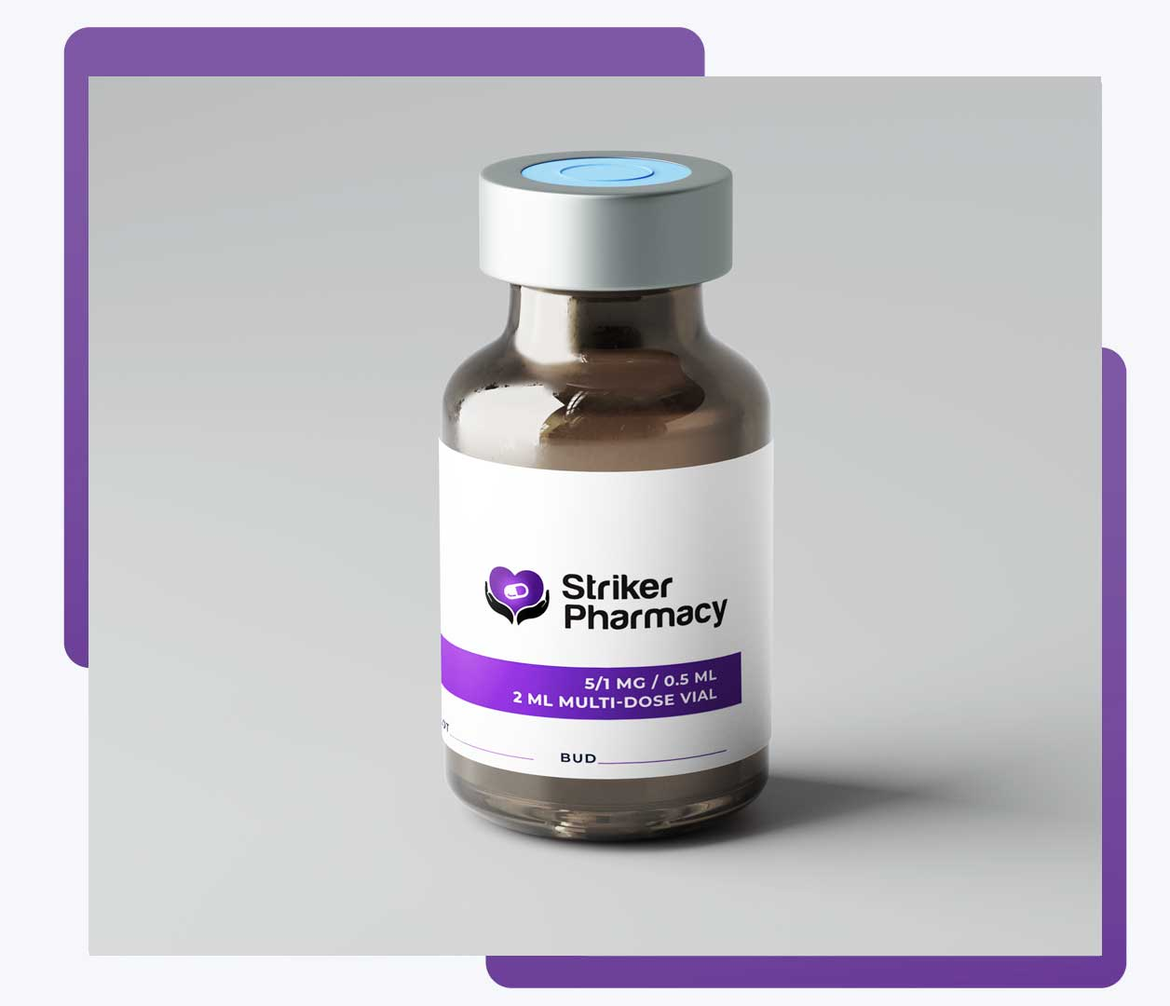
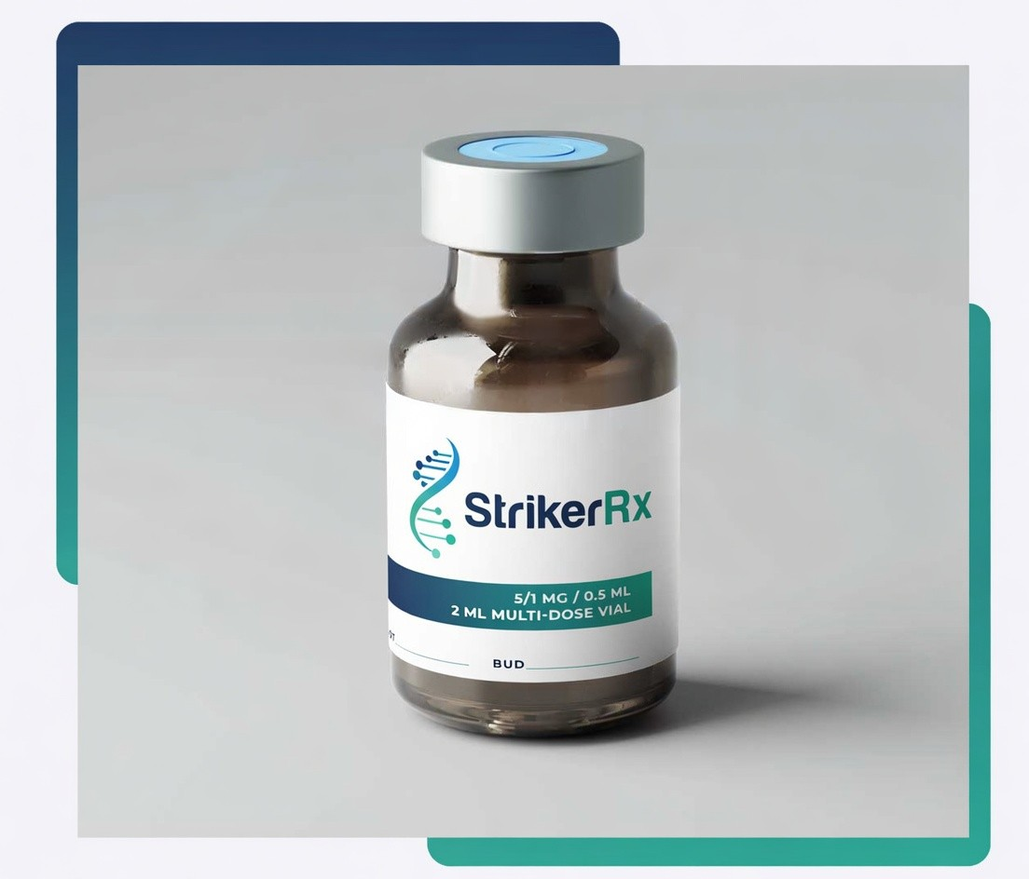
Polish home, split provider and patient tracks, and refresh brand photos.
Round the hero still, drop prototype numbering, show Partner forms only after a track is chosen, and replace old purple logo art including a new StrikerRx vial mock-up.

diff --git a/index.html b/index.html
@@ -67,6 +67,13 @@
     position:fixed; inset:0; z-index:80; background:#fff;
     overflow:auto; -webkit-overflow-scrolling:touch;
   }
+  .home-hero-ctas a { min-width:280px; text-align:center; box-sizing:border-box; }
+  .rounded-photo { border-radius:20px; overflow:hidden; height:100%; box-shadow:0 24px 60px rgba(14,27,44,.35); }
+  .track-tab { display:inline-block; font-size:13px; font-weight:600; padding:10px 16px; border-radius:2px; border:1px solid #d4dae1; color:#3a4654; }
+  .track-tab.on { background:#1F3D68; color:#fff; border-color:#1F3D68; }
+  .chooser-card { display:block; background:#fff; padding:40px 36px; min-height:220px; color:#0E1B2C; border:1px solid #E3E7EC; }
+  .chooser-card:hover { border-color:#269389; color:#1F3D68; }
+  .footer-email { white-space:nowrap; }
   @media (prefers-reduced-motion: reduce) {
     .hero-bg-video { display:none; }
   }
@@ -81,8 +88,9 @@
     .home-hero-grid { gap:0 !important; padding-top:32px !important; padding-bottom:0 !important; }
     .home-hero-title { font-size:31px !important; line-height:1.06 !important; margin:14px 0 14px !important; }
     .home-hero-ctas { flex-direction:column !important; margin-top:22px !important; }
-    .home-hero-ctas a { text-align:center; width:100%; box-sizing:border-box; padding:15px !important; }
-    .home-hero-photo { height:190px !important; box-shadow:none !important; width:calc(100% + 44px); margin-left:-22px; margin-top:24px; }
+    .home-hero-ctas a { text-align:center; width:100%; min-width:0 !important; box-sizing:border-box; padding:15px !important; }
+    .home-hero-photo { height:190px !important; width:calc(100% + 44px); margin-left:-22px; margin-top:24px; }
+    .rounded-photo { box-shadow:none !important; }
     .photo-frame { height:240px !important; }
     .exp-rule { border-left:0 !important; border-top:1px solid rgba(255,255,255,.28) !important; padding-left:0 !important; padding-top:28px !important; }
     .home-hero-stat { display:none !important; }
@@ -120,7 +128,7 @@
       </div>
       <div class="site-header-cta" style="display:flex;align-items:center;gap:18px">
         <a href="tel:8324378624" style="font-size:14px;font-weight:500;color:#606060">832.437.8624</a>
-        <a href="#" onClick="{{ goPartner }}" style="background:#1F3D68;color:#fff;font-size:14px;font-weight:600;padding:12px 20px;border-radius:2px;letter-spacing:-0.01em" style-hover="background:#269389;color:#fff">Provider Account</a>
+        <a href="#" onClick="{{ goProvider }}" style="background:#1F3D68;color:#fff;font-size:14px;font-weight:600;padding:12px 20px;border-radius:2px;letter-spacing:-0.01em" style-hover="background:#269389;color:#fff">Provider Account</a>
       </div>
       <a href="#" class="site-menu-btn" onClick="{{ toggleMenu }}" aria-label="Open menu">
         <span></span><span></span>
@@ -130,11 +138,10 @@
       <div class="wrap" style="max-width:1240px;margin:0 auto;padding:0 40px;height:42px;display:flex;align-items:center;gap:34px;font-size:12.5px;font-weight:500;letter-spacing:0.06em;text-transform:uppercase;color:rgba(255,255,255,.86)">
         <sc-for list="{{ trust }}" as="t" hint-placeholder-count="4">
           <div style="display:flex;align-items:center;gap:34px">
-            <span>{{ t }}</span>
-            <span style="width:4px;height:4px;border-radius:50%;background:#269389;display:block"></span>
+            <span>{{ t.label }}</span>
+            <sc-if value="{{ t.dot }}" hint-placeholder-val="{{ true }}"><span style="width:4px;height:4px;border-radius:50%;background:#269389;display:block"></span></sc-if>
           </div>
         </sc-for>
-        <span style="margin-left:auto;color:#A9DED6;text-transform:none;letter-spacing:0">Katy, Texas</span>
       </div>
     </div>
   </div>
@@ -151,7 +158,7 @@
       </sc-for>
       <a href="#" onClick="{{ goCareers }}" style="display:flex;align-items:center;min-height:48px;font-size:18px;font-weight:500;color:#0E1B2C;border-bottom:1px solid #E3E7EC">Careers</a>
       <a href="tel:8324378624" style="display:block;margin-top:28px;font-size:16px;font-weight:500;color:#606060">832.437.8624</a>
-      <a href="#" onClick="{{ goPartner }}" style="display:block;margin-top:16px;background:#1F3D68;color:#fff;font-size:15px;font-weight:600;padding:16px;border-radius:2px;text-align:center">Provider Account</a>
+      <a href="#" onClick="{{ goProvider }}" style="display:block;margin-top:16px;background:#1F3D68;color:#fff;font-size:15px;font-weight:600;padding:16px;border-radius:2px;text-align:center">Provider Account</a>
     </div>
   </div>
   </sc-if>
@@ -172,14 +179,16 @@
           <div style="width:96px;height:4px;background:linear-gradient(90deg,#158ECE,#34A697);margin:30px 0 26px"></div>
           <p style="font-size:19px;line-height:1.62;color:rgba(255,255,255,.82);max-width:560px;margin:0;font-weight:300">StrikerRx is a 503A-licensed compounding pharmacy partnering with healthcare providers nationwide to deliver patient-specific formulations with quality and consistency you can count on.</p>
           <div class="home-hero-ctas" style="display:flex;gap:14px;margin-top:38px;flex-wrap:wrap">
-            <a href="#" onClick="{{ goPartner }}" style="background:#269389;color:#fff;font-size:15px;font-weight:600;padding:17px 28px;border-radius:2px" style-hover="background:#34A697;color:#fff">For providers: set up an account</a>
-            <a href="#" onClick="{{ goCompound }}" style="border:1px solid rgba(255,255,255,.35);color:#fff;font-size:15px;font-weight:600;padding:17px 28px;border-radius:2px" style-hover="background:rgba(255,255,255,.1);color:#fff">For patients: how this works</a>
+            <a href="#" onClick="{{ goProvider }}" style="background:#269389;color:#fff;font-size:15px;font-weight:600;padding:17px 28px;border-radius:2px" style-hover="background:#34A697;color:#fff">For providers: set up an account</a>
+            <a href="#" onClick="{{ goPatientCompound }}" style="border:1px solid rgba(255,255,255,.35);color:#fff;font-size:15px;font-weight:600;padding:17px 28px;border-radius:2px" style-hover="background:rgba(255,255,255,.1);color:#fff">For patients: how this works</a>
           </div>
         </div>
-        <div class="home-hero-photo" style="position:relative;height:460px;box-shadow:0 24px 60px rgba(14,27,44,.35)">
-          <image-slot id="hero-a" shape="rect" radius="0" src="assets/photos/striker-bottles-blue-glove-tech.jpg" placeholder="StrikerRx vials on the compounding bench"></image-slot>
-          <div class="home-hero-stat" style="position:absolute;left:-28px;bottom:-28px;background:#fff;color:#0E1B2C;padding:22px 26px;max-width:250px;box-shadow:0 18px 50px rgba(14,27,44,.28);pointer-events:none">
-            <div style="font-size:34px;font-weight:700;letter-spacing:-0.03em;color:#269389">30+ yrs</div>
+        <div class="home-hero-photo" style="position:relative;height:460px">
+          <div class="rounded-photo">
+            <image-slot id="hero-a" shape="rounded" radius="20" src="assets/photos/striker-bottles-blue-glove-tech.jpg" placeholder="StrikerRx vials on the compounding bench"></image-slot>
+          </div>
+          <div class="home-hero-stat" style="position:absolute;left:-28px;bottom:-28px;background:#fff;color:#0E1B2C;padding:22px 26px;max-width:250px;border-radius:16px;box-shadow:0 18px 50px rgba(14,27,44,.28);pointer-events:none">
+            <div style="font-size:34px;font-weight:700;letter-spacing:-0.03em;color:#269389">30+ years</div>
             <div style="font-size:14px;line-height:1.45;color:#606060;margin-top:4px">combined pharmacy experience on the compounding bench</div>
           </div>
         </div>
@@ -191,8 +200,7 @@
         <div class="home-pillars" style="display:grid;grid-template-columns:repeat(3,1fr);gap:0;border-top:1px solid #E3E7EC">
           <sc-for list="{{ pillars }}" as="p" hint-placeholder-count="3">
             <div style="padding:44px 40px 8px 0;border-right:1px solid #E3E7EC">
-              <div style="font-size:13px;font-weight:700;color:#269389;letter-spacing:0.12em">{{ p.num }}</div>
-              <h3 style="font-size:26px;line-height:1.18;letter-spacing:-0.025em;font-weight:600;margin:18px 0 14px;max-width:270px;text-wrap:pretty">{{ p.title }}</h3>
+              <h3 style="font-size:26px;line-height:1.18;letter-spacing:-0.025em;font-weight:600;margin:0 0 14px;max-width:270px;text-wrap:pretty">{{ p.title }}</h3>
               <p style="font-size:16px;line-height:1.66;color:#606060;margin:0;max-width:300px;font-weight:300">{{ p.body }}</p>
             </div>
           </sc-for>
@@ -226,9 +234,8 @@
           <a href="#" onClick="{{ goCompound }}" style="font-size:15px;font-weight:600;color:#269389;padding-bottom:6px;border-bottom:2px solid #269389">See all therapeutic categories</a>
         </div>
         <div class="cols-4" style="display:grid;grid-template-columns:repeat(4,1fr);gap:1px;background:#E3E7EC;border:1px solid #E3E7EC">
-          <sc-for list="{{ catNames }}" as="c" hint-placeholder-count="8">
-            <a href="#" onClick="{{ c.go }}" style="background:#fff;padding:34px 26px;min-height:150px;display:flex;flex-direction:column;justify-content:space-between;color:#0E1B2C" style-hover="background:#F7F7F7;color:#1F3D68">
-              <div style="font-size:12px;font-weight:600;color:#269389;letter-spacing:0.1em">{{ c.num }}</div>
+          <sc-for list="{{ catNames }}" as="c" hint-placeholder-count="7">
+            <a href="#" onClick="{{ c.go }}" style="background:#fff;padding:34px 26px;min-height:150px;display:flex;flex-direction:column;justify-content:flex-end;color:#0E1B2C" style-hover="background:#F7F7F7;color:#1F3D68">
               <div style="font-size:19px;font-weight:600;line-height:1.22;letter-spacing:-0.02em;text-wrap:pretty">{{ c.name }}</div>
             </a>
           </sc-for>
@@ -258,8 +265,8 @@
           <p style="font-size:18px;line-height:1.62;color:rgba(255,255,255,.74);margin:0;font-weight:300">Set up a provider account or contact our pharmacy team to discuss your practice's compounding needs. Most accounts are active within 24 hours.</p>
         </div>
         <div style="display:flex;gap:14px;flex-wrap:wrap">
-          <a href="#" onClick="{{ goPartner }}" style="background:#269389;color:#fff;font-size:15px;font-weight:600;padding:17px 28px;border-radius:2px" style-hover="background:#34A697;color:#fff">Set up a provider account</a>
-          <a href="#" onClick="{{ goPartner }}" style="border:1px solid rgba(255,255,255,.35);color:#fff;font-size:15px;font-weight:600;padding:17px 28px;border-radius:2px" style-hover="background:rgba(255,255,255,.1);color:#fff">Contact our pharmacy team</a>
+          <a href="#" onClick="{{ goProvider }}" style="background:#269389;color:#fff;font-size:15px;font-weight:600;padding:17px 28px;border-radius:2px" style-hover="background:#34A697;color:#fff">Set up a provider account</a>
+          <a href="#" onClick="{{ goPatient }}" style="border:1px solid rgba(255,255,255,.35);color:#fff;font-size:15px;font-weight:600;padding:17px 28px;border-radius:2px" style-hover="background:rgba(255,255,255,.1);color:#fff">I'm a patient</a>
         </div>
       </div>
     </div>
@@ -321,7 +328,7 @@
           <h2 style="font-size:40px;line-height:1.08;letter-spacing:-0.03em;font-weight:700;margin:0 0 14px">Ready to partner with StrikerRx?</h2>
           <p style="font-size:18px;line-height:1.6;color:rgba(255,255,255,.86);margin:0;font-weight:300">Set up a provider account or contact our pharmacy team to discuss your practice's compounding needs.</p>
         </div>
-        <a href="#" onClick="{{ goPartner }}" style="background:#fff;color:#1F3D68;font-size:15px;font-weight:600;padding:17px 28px;border-radius:2px" style-hover="background:#0E1B2C;color:#fff">Set up a provider account</a>
+        <a href="#" onClick="{{ goProvider }}" style="background:#fff;color:#1F3D68;font-size:15px;font-weight:600;padding:17px 28px;border-radius:2px" style-hover="background:#0E1B2C;color:#fff">Set up a provider account</a>
       </div>
     </div>
   </div>
@@ -345,36 +352,43 @@
           <sc-for list="{{ categories }}" as="c" hint-placeholder-count="7">
             <div style="border-bottom:1px solid #E3E7EC">
               <a href="#" onClick="{{ c.toggle }}" class="cat-row" style="display:flex;align-items:center;gap:28px;padding:30px 4px;color:#0E1B2C" style-hover="color:#269389">
-                <span style="font-size:13px;font-weight:600;color:#269389;letter-spacing:0.1em;width:34px">{{ c.num }}</span>
                 <span class="cat-name" style="font-size:30px;font-weight:600;letter-spacing:-0.025em;flex:1;text-wrap:pretty">{{ c.name }}</span>
                 <span style="font-size:26px;font-weight:300;color:#606060">{{ c.sign }}</span>
               </a>
               <sc-if value="{{ c.open }}" hint-placeholder-val="{{ true }}">
-                <div class="cols-2" style="display:grid;grid-template-columns:1fr 1fr;gap:1px;background:#E3E7EC;margin:0 0 30px;border:1px solid #E3E7EC">
-                  <div style="background:#F7F7F7;padding:32px 30px">
-                    <div style="font-size:12px;font-weight:700;letter-spacing:0.12em;text-transform:uppercase;color:#1F3D68;margin-bottom:12px">For providers</div>
-                    <p style="font-size:16.5px;line-height:1.66;margin:0;color:#3a4654;font-weight:300">{{ c.providers }}</p>
+                <div style="margin:0 0 30px;padding:28px 4px 8px">
+                  <div style="display:flex;gap:10px;flex-wrap:wrap;margin-bottom:22px">
+                    <a href="#" onClick="{{ setProviderTrack }}" class="track-tab {{ c.providerOn }}">For providers</a>
+                    <a href="#" onClick="{{ setPatientTrack }}" class="track-tab {{ c.patientOn }}">For patients</a>
                   </div>
-                  <div style="background:#F7F7F7;padding:32px 30px">
-                    <div style="font-size:12px;font-weight:700;letter-spacing:0.12em;text-transform:uppercase;color:#269389;margin-bottom:12px">For patients</div>
-                    <p style="font-size:16.5px;line-height:1.66;margin:0;color:#3a4654;font-weight:300">{{ c.patients }}</p>
-                  </div>
+                  <sc-if value="{{ noAudience }}" hint-placeholder-val="{{ true }}">
+                    <p style="font-size:16px;line-height:1.66;color:#606060;margin:0;font-weight:300">Choose a track to see how this category works for you.</p>
+                  </sc-if>
+                  <sc-if value="{{ isProvider }}" hint-placeholder-val="{{ true }}">
+                    <div style="background:#F7F7F7;padding:32px 30px">
+                      <div style="font-size:12px;font-weight:700;letter-spacing:0.12em;text-transform:uppercase;color:#1F3D68;margin-bottom:12px">Provider track</div>
+                      <p style="font-size:16.5px;line-height:1.66;margin:0 0 22px;color:#3a4654;font-weight:300">{{ c.providers }}</p>
+                      <a href="#" onClick="{{ goProvider }}" style="display:inline-block;background:#269389;color:#fff;font-size:15px;font-weight:600;padding:14px 22px;border-radius:2px" style-hover="background:#1F3D68;color:#fff">Set up a provider account</a>
+                    </div>
+                  </sc-if>
+                  <sc-if value="{{ isPatient }}" hint-placeholder-val="{{ true }}">
+                    <div style="background:#F7F7F7;padding:32px 30px">
+                      <div style="font-size:12px;font-weight:700;letter-spacing:0.12em;text-transform:uppercase;color:#269389;margin-bottom:12px">Patient track</div>
+                      <p style="font-size:16.5px;line-height:1.66;margin:0 0 22px;color:#3a4654;font-weight:300">{{ c.patients }}</p>
+                      <a href="#" onClick="{{ goPatient }}" style="display:inline-block;background:#1F3D68;color:#fff;font-size:15px;font-weight:600;padding:14px 22px;border-radius:2px" style-hover="background:#269389;color:#fff">Ask a question</a>
+                    </div>
+                  </sc-if>
                 </div>
               </sc-if>
             </div>
           </sc-for>
-          <div style="border-bottom:1px solid #E3E7EC;padding:30px 4px;display:flex;align-items:center;gap:28px;color:#9aa4ae">
-            <span style="font-size:13px;font-weight:600;letter-spacing:0.1em;width:34px">08</span>
-            <span style="font-size:30px;font-weight:300;letter-spacing:-0.025em">Future category</span>
-            <span style="font-size:13px;margin-left:auto;letter-spacing:0.06em;text-transform:uppercase">Placeholder</span>
-          </div>
         </div>
       </div>
     </div>
     <div style="background:#0E1B2C;color:#fff">
       <div class="wrap" style="max-width:1240px;margin:0 auto;padding:78px 40px;display:flex;align-items:center;justify-content:space-between;gap:50px;flex-wrap:wrap">
-        <h2 style="font-size:36px;line-height:1.12;letter-spacing:-0.03em;font-weight:700;margin:0;max-width:600px">Don't see what your practice needs?</h2>
-        <a href="#" onClick="{{ goPartner }}" style="background:#269389;color:#fff;font-size:15px;font-weight:600;padding:17px 28px;border-radius:2px" style-hover="background:#34A697;color:#fff">Ask our pharmacy team</a>
+        <h2 style="font-size:36px;line-height:1.12;letter-spacing:-0.03em;font-weight:700;margin:0;max-width:600px">{{ compoundCtaTitle }}</h2>
+        <a href="#" onClick="{{ compoundCtaGo }}" style="background:#269389;color:#fff;font-size:15px;font-weight:600;padding:17px 28px;border-radius:2px" style-hover="background:#34A697;color:#fff">{{ compoundCtaLabel }}</a>
       </div>
     </div>
   </div>
@@ -386,17 +400,36 @@
     <div style="background:#F7F7F7">
       <div class="wrap" style="max-width:1240px;margin:0 auto;padding:88px 40px 76px">
         <h1 class="page-title" style="font-size:62px;line-height:1.02;letter-spacing:-0.04em;font-weight:700;margin:0">Work with StrikerRx</h1>
-        <p style="font-size:19px;line-height:1.62;color:#3a4654;margin:18px 0 0;max-width:660px;font-weight:300">Whether you are setting up a new provider account or have a question about an existing order, our pharmacy team responds within 24 hours or less.</p>
+        <p style="font-size:19px;line-height:1.62;color:#3a4654;margin:18px 0 0;max-width:660px;font-weight:300">{{ partnerIntro }}</p>
       </div>
     </div>
 
+    <sc-if value="{{ noAudience }}" hint-placeholder-val="{{ true }}">
+    <div style="background:#fff">
+      <div class="wrap cols-2" style="max-width:1240px;margin:0 auto;padding:20px 40px 96px;display:grid;grid-template-columns:1fr 1fr;gap:24px">
+        <a href="#" onClick="{{ goProvider }}" class="chooser-card" style-hover="border-color:#269389;color:#1F3D68">
+          <div style="font-size:12px;font-weight:600;letter-spacing:0.14em;text-transform:uppercase;color:#269389;margin-bottom:14px">For healthcare providers</div>
+          <h2 style="font-size:32px;line-height:1.12;letter-spacing:-0.03em;font-weight:700;margin:0 0 14px">Set up a provider account</h2>
+          <p style="font-size:16px;line-height:1.62;color:#606060;margin:0;font-weight:300">Request a formulation list, ask a clinical question, or open an account. Most accounts are active within 24 hours.</p>
+        </a>
+        <a href="#" onClick="{{ goPatient }}" class="chooser-card" style-hover="border-color:#269389;color:#1F3D68">
+          <div style="font-size:12px;font-weight:600;letter-spacing:0.14em;text-transform:uppercase;color:#269389;margin-bottom:14px">For patients</div>
+          <h2 style="font-size:32px;line-height:1.12;letter-spacing:-0.03em;font-weight:700;margin:0 0 14px">Have a question?</h2>
+          <p style="font-size:16px;line-height:1.62;color:#606060;margin:0;font-weight:300">We compound from a valid prescription. Ask your provider to submit it, or send us a question about an existing order.</p>
+        </a>
+      </div>
+    </div>
+    </sc-if>
+
     <!-- PROVIDER -->
+    <sc-if value="{{ isProvider }}" hint-placeholder-val="{{ true }}">
     <div style="background:#1F3D68;color:#fff">
       <div class="wrap cols-2" style="max-width:1240px;margin:0 auto;padding:88px 40px;display:grid;grid-template-columns:.85fr 1.15fr;gap:72px;align-items:start">
         <div>
           <div style="font-size:12px;font-weight:600;letter-spacing:0.14em;text-transform:uppercase;color:#A9DED6">For healthcare providers</div>
           <h2 style="font-size:40px;line-height:1.08;letter-spacing:-0.03em;font-weight:700;margin:16px 0 18px">Set up a provider account</h2>
           <p style="font-size:17px;line-height:1.66;color:rgba(255,255,255,.8);margin:0;font-weight:300">New to StrikerRx? Use the provider form to set up an account, request a formulation list, or ask a clinical question. Already a provider? Contact your account representative directly.</p>
+          <a href="#" onClick="{{ goPatient }}" style="display:inline-block;margin-top:18px;font-size:14px;font-weight:600;color:#A9DED6">Not a provider? Patient questions →</a>
           <div style="margin-top:34px;padding-top:26px;border-top:1px solid rgba(255,255,255,.2);display:flex;flex-direction:column;gap:14px">
             <div style="font-size:15px;color:rgba(255,255,255,.9)">customersupport@strikerrx.com</div>
             <div style="font-size:15px;color:rgba(255,255,255,.9)">832.437.8624</div>
@@ -525,14 +558,17 @@
         </div>
       </div>
     </div>
+    </sc-if>
 
     <!-- PATIENT -->
+    <sc-if value="{{ isPatient }}" hint-placeholder-val="{{ true }}">
     <div style="background:#A9DED6;color:#0E1B2C">
       <div class="wrap cols-2" style="max-width:1240px;margin:0 auto;padding:88px 40px;display:grid;grid-template-columns:.85fr 1.15fr;gap:72px;align-items:start">
         <div>
           <div style="font-size:12px;font-weight:600;letter-spacing:0.14em;text-transform:uppercase;color:#1F3D68">For patients</div>
           <h2 style="font-size:40px;line-height:1.08;letter-spacing:-0.03em;font-weight:700;margin:16px 0 18px">Have a question?</h2>
           <p style="font-size:17px;line-height:1.66;color:rgba(14,27,44,.76);margin:0;font-weight:300">StrikerRx compounds medications using valid prescriptions from licensed providers. We do not accept direct patient orders. Ask your provider to submit your prescription through their StrikerRx account.</p>
+          <a href="#" onClick="{{ goProvider }}" style="display:inline-block;margin-top:18px;font-size:14px;font-weight:600;color:#1F3D68">Are you a provider? Set up an account →</a>
         </div>
         <div class="form-card" style="background:#fff;padding:40px 44px 44px">
           <sc-if value="{{ patientDone }}" hint-placeholder-val="{{ true }}">
@@ -576,6 +612,7 @@
         </div>
       </div>
     </div>
+    </sc-if>
 
     <div style="background:#F7F7F7">
       <div class="wrap" style="max-width:1240px;margin:0 auto;padding:70px 40px">
@@ -636,7 +673,7 @@
           </div>
         </div>
         <div class="photo-frame" style="height:420px;position:relative">
-          <image-slot id="careers-team" shape="rect" radius="0" src="assets/photos/Striker-Attending-Conference-Web-Art-fb-1024x536.jpg" placeholder="Team at work"></image-slot>
+          <image-slot id="careers-team" shape="rect" radius="0" src="assets/photos/Home-Header-02.jpg" placeholder="Team at work"></image-slot>
         </div>
       </div>
     </div>
@@ -769,7 +806,7 @@
           <div style="font-size:12px;font-weight:600;letter-spacing:0.12em;text-transform:uppercase;color:#A9DED6;margin-bottom:4px">Contact</div>
           <div style="font-size:15px;line-height:1.6;color:rgba(255,255,255,.8)">1330 Pin Oak Rd<br />Katy, Texas 77494</div>
           <a href="tel:8324378624" style="font-size:15px;color:rgba(255,255,255,.8)" style-hover="color:#A9DED6">832.437.8624</a>
-          <a href="mailto:customersupport@strikerrx.com" style="font-size:15px;color:rgba(255,255,255,.8);word-break:break-all" style-hover="color:#A9DED6">customersupport@strikerrx.com</a>
+          <a href="mailto:customersupport@strikerrx.com" class="footer-email" style="font-size:15px;color:rgba(255,255,255,.8)" style-hover="color:#A9DED6">customersupport@strikerrx.com</a>
         </div>
         <div style="display:flex;flex-direction:column;gap:12px">
           <div style="font-size:12px;font-weight:600;letter-spacing:0.12em;text-transform:uppercase;color:#A9DED6;margin-bottom:4px">Hours</div>
@@ -794,7 +831,7 @@
 <script type="text/x-dc" data-dc-script data-props="{&quot;$preview&quot;:{&quot;width&quot;:1440}}">
 class Component extends DCLogic {
   state = {
-    page: 'home', menuOpen: false, openCat: 0, role: null, applied: false,
+    page: 'home', audience: null, menuOpen: false, openCat: 0, role: null, applied: false,
     step: 1, pDone: false, err: '', f: {}, cats: {},
     pf: {}, patDone: false, patErr: ''
   };
@@ -837,7 +874,11 @@ class Component extends DCLogic {
       label, active: page === key, idle: page !== key,
       go: e => { e.preventDefault(); this.go(key); }
     });
-    const nav = [mk('Home', 'home'), mk('About StrikerRx', 'about'), mk('What We Compound', 'compound'), mk('Partner With Us', 'partner'), mk('Insights', 'insights')];
+    const nav = [
+      mk('Home', 'home'), mk('About StrikerRx', 'about'), mk('What We Compound', 'compound'),
+      { label: 'Partner With Us', active: page === 'partner', idle: page !== 'partner', go: e => { e.preventDefault(); this.setState({ audience: null, page: 'partner', menuOpen: false, role: null, err: '' }); window.scrollTo(0, 0); } },
+      mk('Insights', 'insights')
+    ];
 
     const cat = (name, providers, patients) => ({ name, providers, patients });
     const cats = [
@@ -863,8 +904,6 @@ class Component extends DCLogic {
         'StrikerRx compounds sterile and non-sterile preparations for licensed prescribers working in functional medicine and preventative care. All formulations are patient-specific and prepared to USP standards.',
         'Immune and wellness support compounded medications are prepared specifically for you, based on your provider\u2019s assessment and your individual health needs.')
     ];
-    const pad = i => String(i + 1).padStart(2, '0');
-
     const roles = [
       { title: 'Compounding Pharmacist (PharmD)', dept: 'Pharmacy', type: 'Full-time',
         summary: 'You will own sterile and non-sterile preparations from verification through final release — checking every formulation, signing off on documentation, and being the voice on the phone when a provider has a clinical question.',
@@ -900,13 +939,36 @@ class Component extends DCLogic {
     return {
       nav,
       goHome: e => { e.preventDefault(); this.go('home'); },
-      goPartner: e => { e.preventDefault(); this.go('partner'); },
+      goPartner: e => { e.preventDefault(); this.setState({ audience: null, page: 'partner', menuOpen: false, role: null, err: '' }); window.scrollTo(0, 0); },
+      goProvider: e => { e.preventDefault(); this.setState({ audience: 'provider', page: 'partner', menuOpen: false, role: null, err: '' }); window.scrollTo(0, 0); },
+      goPatient: e => { e.preventDefault(); this.setState({ audience: 'patient', page: 'partner', menuOpen: false, role: null, err: '' }); window.scrollTo(0, 0); },
+      goPatientCompound: e => { e.preventDefault(); this.setState({ audience: 'patient', page: 'compound', menuOpen: false }); window.scrollTo(0, 0); },
       goCompound: e => { e.preventDefault(); this.go('compound'); },
       goCareers: e => { e.preventDefault(); this.go('careers'); },
+      setProviderTrack: e => { e.preventDefault(); this.setState({ audience: 'provider' }); },
+      setPatientTrack: e => { e.preventDefault(); this.setState({ audience: 'patient' }); },
 
-      trust: ['503A Licensed', 'USP <797> Compliant', 'FDA-Registered Ingredients', 'Providers Nationwide'],
+      trust: [
+        { label: '503A Licensed', dot: true },
+        { label: 'USP <797> Compliant', dot: true },
+        { label: 'FDA-Registered Ingredients', dot: true },
+        { label: 'Providers Nationwide', dot: false }
+      ],
 
       isHome,
+      isProvider: st.audience === 'provider',
+      isPatient: st.audience === 'patient',
+      noAudience: !st.audience,
+      partnerIntro: st.audience === 'provider'
+        ? 'Set up a provider account or ask a clinical question. Our pharmacy team responds within 24 hours or less.'
+        : st.audience === 'patient'
+        ? 'Have a question about a prescription? Our customer service team responds within one business day.'
+        : 'Choose whether you are a provider or a patient. The next step is different for each.',
+      compoundCtaTitle: st.audience === 'patient' ? 'Have a question about your prescription?' : 'Don\u2019t see what your practice needs?',
+      compoundCtaLabel: st.audience === 'patient' ? 'Ask a question' : 'Ask our pharmacy team',
+      compoundCtaGo: st.audience === 'patient'
+        ? (e => { e.preventDefault(); this.setState({ audience: 'patient', page: 'partner', menuOpen: false }); window.scrollTo(0, 0); })
+        : (e => { e.preventDefault(); this.setState({ audience: 'provider', page: 'partner', menuOpen: false }); window.scrollTo(0, 0); }),
       isAbout: page === 'about', isCompound: page === 'compound', isPartner: page === 'partner',
       isInsights: page === 'insights', isCareers: page === 'careers', isRole: page === 'role',
       menuOpen: st.menuOpen,
@@ -919,12 +981,13 @@ class Component extends DCLogic {
         { num: '03', title: 'Patient-specific.', body: 'Every prescription is dispensed specially for the individual patient according to the provider\u2019s exact directions.' }
       ],
 
-      catNames: cats.map((c, i) => ({ num: pad(i), name: c.name, go: e => { e.preventDefault(); this.setState({ openCat: i }); this.go('compound'); } }))
-        .concat([{ num: '08', name: 'Future category', go: e => { e.preventDefault(); this.go('compound'); } }]),
+      catNames: cats.map((c, i) => ({ name: c.name, go: e => { e.preventDefault(); this.setState({ openCat: i }); this.go('compound'); } })),
 
       categories: cats.map((c, i) => ({
-        num: pad(i), name: c.name, providers: c.providers, patients: c.patients,
+        name: c.name, providers: c.providers, patients: c.patients,
         open: st.openCat === i, sign: st.openCat === i ? '\u2212' : '+',
+        providerOn: st.audience === 'provider' ? 'on' : '',
+        patientOn: st.audience === 'patient' ? 'on' : '',
         toggle: e => { e.preventDefault(); this.setState(s => ({ openCat: s.openCat === i ? -1 : i })); }
       })),
 
@@ -948,7 +1011,7 @@ class Component extends DCLogic {
       posts: [
         { slot: 'post-1', img: 'assets/photos/The-Gold-Standard-in-Patient-Safety-Striker-blog-1024x536.jpg', tag: 'Patient safety', title: 'How StrikerRx protects your health', excerpt: 'The gold standard in patient safety \u2014 and what it means for the practices we serve.' },
         { slot: 'post-2', img: 'assets/photos/Striker-Pharma-Compound-Pharmacy-vs-1-1024x536.jpg', tag: 'Pharmacy', title: 'Compounding vs. retail pharmacy: what sets us apart', excerpt: 'Why one size does not fit all, and where patient-specific formulation changes the outcome.' },
-        { slot: 'post-3', img: 'assets/photos/GLP-01-Mock-Up-03.jpg', tag: 'Placeholder', title: 'Article headline goes here', excerpt: 'Short standfirst for the post. In Webflow this is a CMS field your team fills in.' }
+        { slot: 'post-3', img: 'assets/photos/Bottles-colorful.jpg', tag: 'Compounding', title: 'Article headline goes here', excerpt: 'Short standfirst for the post. In Webflow this is a CMS field your team fills in.' }
       ],
 
       culture: [
